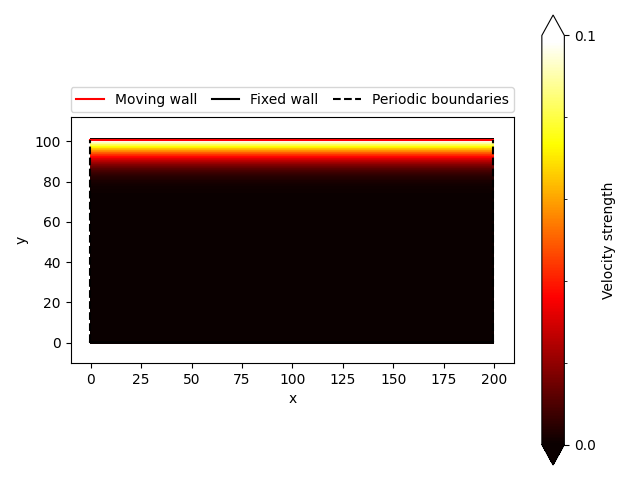
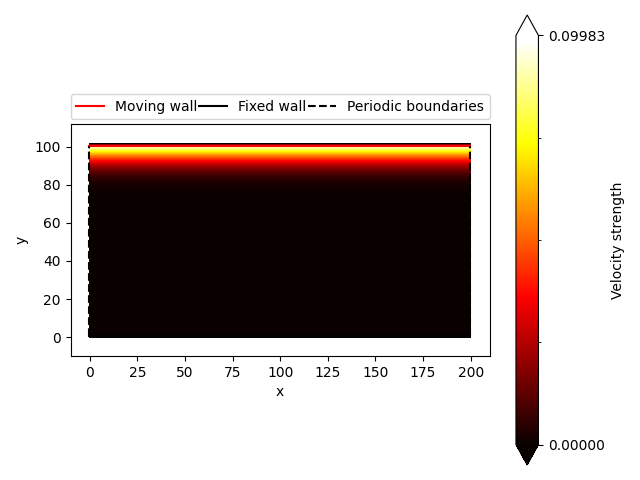
Couette Flow result plots

diff --git a/Milestone4_CouetteFlow.py b/Milestone4_CouetteFlow.py
@@ -35,14 +35,21 @@ def couette_flow(grid_size_x : int, grid_size_y : int, omega : float, timesteps 
     lbm = LBM(grid_size_x, grid_size_y, omega, inital_velocity_field_Cyx=initial_velocity_field_Cyx, boundary_conditions=boundary_conditions, boundary_velocities=boundary_velocities)
 
     # simulate Couette flow
-    simulated_velocity_field_tCyx = []
-    simulated_velocity_field_tCyx.append(lbm.velocity_field_Cyx)
+    simulated_velocity_field_tCyx = [lbm.velocity_field_Cyx]
+    indices = [0]
     print("Simulating Couette flow...")
-    for i in range(timesteps):
-        lbm.step()
-        lbm.update_velocity_field()
-        simulated_velocity_field_tCyx.append(lbm.velocity_field_Cyx)
 
+    safe_timesteps = [1, 10, 100, 1000, int(timesteps/2), timesteps-1]
+    for i in range(1, timesteps):
+        lbm.step()
+        if i%100 == 0:# or i in safe_timesteps:
+            print("Timestep " + str(i) + " of " + str(timesteps))
+        
+            lbm.update_velocity_field()
+            simulated_velocity_field_tCyx.append(lbm.velocity_field_Cyx)
+            indices.append(i)
+
+    print("Plotting results...")
     # # plot velocity field streamplot
     fig_velocity_over_time = plt.figure()
     ax1 = fig_velocity_over_time.add_subplot(111)
@@ -54,104 +61,63 @@ def couette_flow(grid_size_x : int, grid_size_y : int, omega : float, timesteps 
     ax1.set_ylim(-10, lbm.height+10)
     x = np.arange(lbm.width)
     y = np.arange(lbm.height)
-    X, Y = np.meshgrid(x,y)
 
-    analytical_solution_velocity_x = top_boundary_velocity * np.arange(lbm.height-2, 0, -1) / (lbm.height-2)
-    simulated_velocity_x = np.array(simulated_velocity_field_tCyx)[-1, 0, :, :]
     max_velocity = np.max(np.array(simulated_velocity_field_tCyx)[:, 0, :, :])
-    safe_timesteps = [1, 10, 100, 1000, timesteps-1]
 
     # plot strength of velocity field
-    for i in range(timesteps):        
-        if i%50 == 0 or i in safe_timesteps:
-            ax1.set_xlabel("x")
-            ax1.set_ylabel("y")
-            ax1.set_aspect("equal")
-            ax1.set_xlim(-10, lbm.width+10)
-            ax1.set_ylim(-10, lbm.height+10)
-            # ax1.set_title("Velocity field over time, t = " + str(i))
-            velocity_magnitude_field_yx = np.sqrt(simulated_velocity_field_tCyx[i][0]**2 + simulated_velocity_field_tCyx[i][1]**2)
-            mappable = ax1.imshow(np.flip(velocity_magnitude_field_yx, axis=0), cmap="hot", origin="lower")
-            cbar = fig_velocity_over_time.colorbar(mappable, ax=ax1, extend='both')
-            cbar.set_ticks([0, max_velocity])
-            cbar.minorticks_on()
-            cbar.set_label("Velocity strength")
-            # draw the boundaries
-            ax1.plot([-0.5, lbm.width - 0.5], [lbm.height-1.5, lbm.height-1.5], color="red", label="Moving wall")
-            ax1.plot([-0.5, lbm.width - 0.5], [0.5, 0.5], color="black", label = "Fixed wall")
-            # draw vertical boundaries
-            ax1.plot([-0.5, -0.5], [0.5, lbm.height- 1.5], color="black", linestyle="dashed", label="Periodic boundaries")
-            ax1.plot([lbm.width-0.5, lbm.width-0.5], [0.5, lbm.height - 1.5], color="black", linestyle="dashed")
-            ax1.legend(bbox_to_anchor=(0, 1.02, 1, 0.2), loc="lower left",
-                mode="expand", borderaxespad=0, ncol=3)
-            plt.tight_layout()
-            if i in safe_timesteps:
-                plt.savefig("CouetteFlowResults/CouetteFlow_VelocityField_t" + str(i) + ".png")
-            plt.pause(0.01)
-            cbar.remove()
-            ax1.clear()
-    
-
-    def plot_velocity_vectors(timestep, lbm : LBM, ax_vectors, X, Y, simulated_velocity_field_tCyx, max_velocity):
-        ax_vectors.set_xlabel("x")
-        ax_vectors.set_ylabel("y")
-        ax_vectors.set_aspect("equal")
-        ax_vectors.set_title("Velocity field at t = " + str(timestep))
-        ax_vectors.set_xlim(-0.5, lbm.width)
-        ax_vectors.set_ylim(lbm.height, -0.5)
-        data_timestep = np.array(simulated_velocity_field_tCyx)[timestep, :, :, :]
-        ax_vectors.quiver(X, Y, data_timestep[0], data_timestep[1], scale=max_velocity*10)
+    for i, simulated_velocity_field_Cyx in zip(indices, simulated_velocity_field_tCyx):     
+        ax1.set_xlabel("x")
+        ax1.set_ylabel("y")
+        ax1.set_aspect("equal")
+        ax1.set_xlim(-10, lbm.width+10)
+        ax1.set_ylim(-10, lbm.height+10)
+        # ax1.set_title("Velocity field over time, t = " + str(i))
+        velocity_magnitude_field_yx = np.sqrt(simulated_velocity_field_Cyx[0]**2 + simulated_velocity_field_Cyx[1]**2)
+        mappable = ax1.imshow(np.flip(velocity_magnitude_field_yx, axis=0), cmap="hot", origin="lower")
+        cbar = fig_velocity_over_time.colorbar(mappable, ax=ax1, extend='both')
+        cbar.set_ticks([0, max_velocity])
+        cbar.minorticks_on()
+        cbar.set_label("Velocity strength")
         # draw the boundaries
-        ax_vectors.plot([-0.5, lbm.width - 0.5], [0.5, 0.5], color="red", label="Moving wall")
-        ax_vectors.plot([-0.5, lbm.width - 0.5], [lbm.height-1.5, lbm.height-1.5], color="black", label = "Fixed wall")
+        ax1.plot([-0.5, lbm.width - 0.5], [lbm.height-1.5, lbm.height-1.5], color="red", label="Moving wall")
+        ax1.plot([-0.5, lbm.width - 0.5], [0.5, 0.5], color="black", label = "Fixed wall")
         # draw vertical boundaries
-        ax_vectors.plot([-0.5, -0.5], [0.5, lbm.height- 1.5], color="black", linestyle="dashed", label="Periodic boundaries")
-        ax_vectors.plot([lbm.width-0.5, lbm.width-0.5], [0.5, lbm.height - 1.5], color="black", linestyle="dashed")
-        # draw all grid points
-        ax_vectors.scatter(X, Y, color="green", s=4, label="Grid points outside boundaries")
-        # make grid points outside the boundaries different color
-        ax_vectors.scatter(X[1:-1, :], Y[1:-1, :], color="blue", s=4, label="Grid points")
-        # do not show axes
-        # ax_vectors.set_axis_off()
-        # plt.tight_layout()
-        # ax_vectors.legend(bbox_to_anchor=(1.04, 1), borderaxespad=0)
+        ax1.plot([-0.5, -0.5], [0.5, lbm.height- 1.5], color="black", linestyle="dashed", label="Periodic boundaries")
+        ax1.plot([lbm.width-0.5, lbm.width-0.5], [0.5, lbm.height - 1.5], color="black", linestyle="dashed")
+        ax1.legend(bbox_to_anchor=(0, 1.02, 1, 0.2), loc="lower left",
+            mode="expand", borderaxespad=0, ncol=3)
+        plt.tight_layout()
+        if i in safe_timesteps:
+            plt.savefig("CouetteFlowResults/CouetteFlow_VelocityField_t" + str(i) + ".png")
+        plt.pause(0.01)
+        cbar.remove()
+        ax1.clear()
+            
+    # plot the velocity profile at L_x / 2 over time
+    # expectation is a linear profile for t-->infinitiy
+    lx2 = int(lbm.width/2)
+    fig_velocity_profile_Lx2 = plt.figure()
+    ax_vel_profile_Lx2 = fig_velocity_profile_Lx2.add_subplot(111)
+    ax_vel_profile_Lx2.set_xlabel("Velocity")
+    ax_vel_profile_Lx2.set_ylabel("y")
+    ax_vel_profile_Lx2.set_ylim(0, lbm.height-1)
+    ax_vel_profile_Lx2.set_xlim(0, max_velocity)
+    # ax_vel_profile_Lx2.set_aspect("equal")
+    y = np.arange(lbm.height-2, 0, -1)
+    colors = matplotlib.cm.rainbow(np.linspace(0, 1, np.ceil(timesteps/1000).astype(int) + 1))
+    for i, simulated_velocity_field_Cyx in zip(indices, simulated_velocity_field_tCyx):
+        if i % 1000 == 0 or i == indices[-1]:
+            ax_vel_profile_Lx2.plot(np.array(simulated_velocity_field_Cyx)[0, 1:-1, lx2], y, label="t = " + str(i), color=colors[int(i/1000)])
+
+    ax_vel_profile_Lx2.legend()
+    plt.savefig("CouetteFlowResults/CouetteFlow_VelocityProfile_Lx2_over_timesteps.png")
     # plt.tight_layout(rect=[0, 0, 0.75, 1])
-    # plt.show()
-
-    # plot velocity profile four times over all timesteps
-    fig_velocity_profile = plt.figure()
-    
-    for i in range(0, timesteps, int(timesteps/4)):
-        ax_vel_profile = fig_velocity_profile.add_subplot(2, 2, int(i/(timesteps/4))+1)
-        plot_velocity_vectors(i, lbm, ax_vel_profile, X, Y, simulated_velocity_field_tCyx, max_velocity)
-    plt.tight_layout(rect=[0, 0, 0.75, 1])
     plt.show()
 
-    # # plot velocity for all y values at x = 1 at 4 timesteps as one horizontal bar plot
-    # fig_velocity_profile = plt.figure()
-    # ax_vel_profile = fig_velocity_profile.add_subplot(111)
-    # ax_vel_profile.set_xlabel("Velocity")
-    # ax_vel_profile.set_ylabel("y")
-    # ax_vel_profile.set_ylim(0, lbm.height-1)
-    # # ax_vel_profile.set_xlim(0, max_velocity)
-    # # ax_vel_profile.set_aspect("equal")
-    # y = np.arange(lbm.height-1, -1, -1)
-    # colors = matplotlib.cm.rainbow(np.linspace(0, 1, 4))
-    # for i in range(timesteps-1, 0, -int(timesteps/4)):
-    #     ax_vel_profile.barh(y, np.array(simulated_velocity_field_tCyx)[i, 0, :, 1], height=-1, align="edge", label="t = " + str(i), color=colors[int(i/(timesteps/4))])
-
-    # ax_vel_profile.legend()
-    # # plt.tight_layout(rect=[0, 0, 0.75, 1])
-    # plt.show()
-
-    plt.show()
 if __name__ == "__main__":
 
     grid_size_x = 200
     grid_size_y = 100
     omega = 0.6
-    timestep = 10000
-    couette_flow(grid_size_x, grid_size_y, omega, timestep)
-
-
-# plot at L_x / 2 the u_x velocity over time --> linear profile
+    timesteps = 10000
+    couette_flow(grid_size_x, grid_size_y, omega, timesteps)
